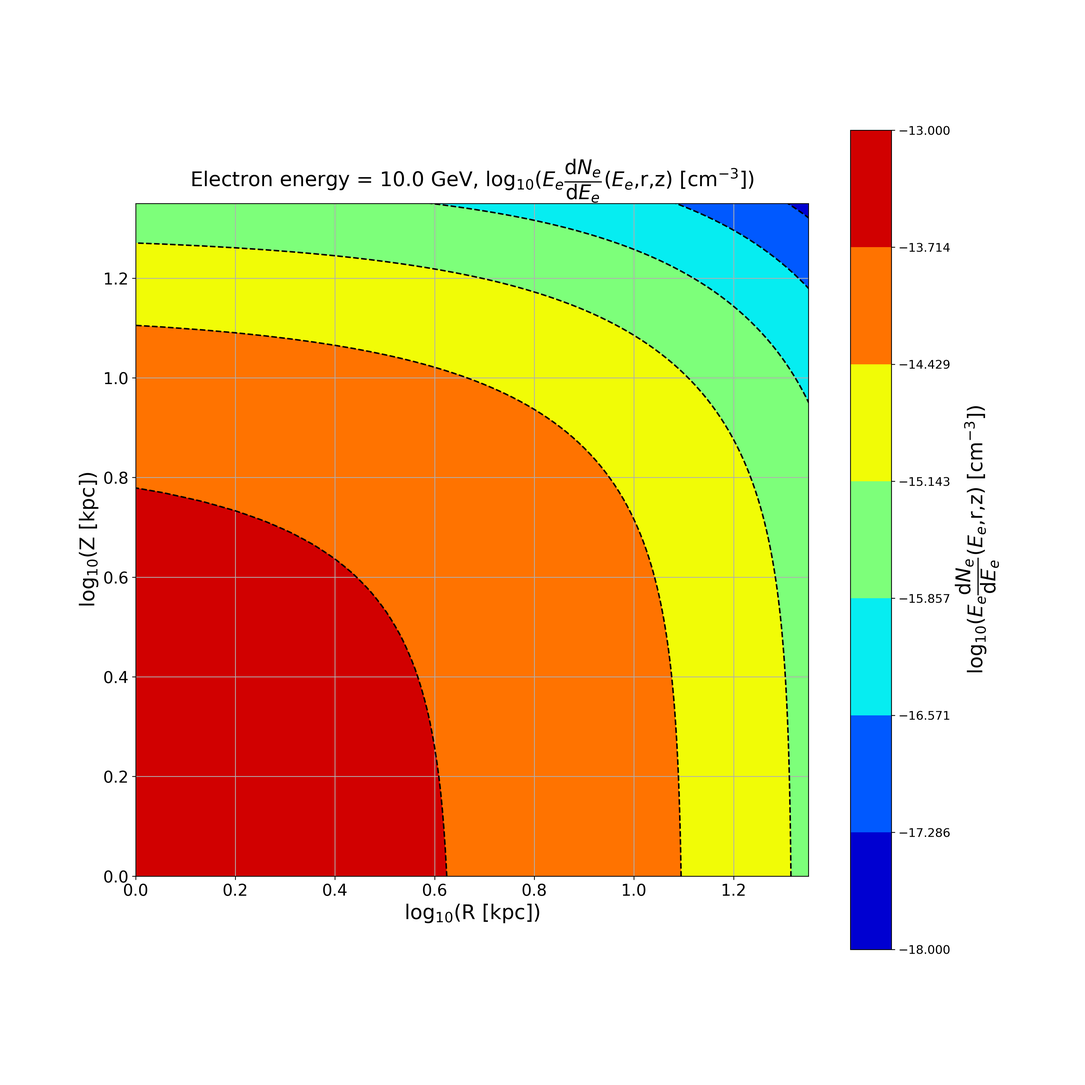
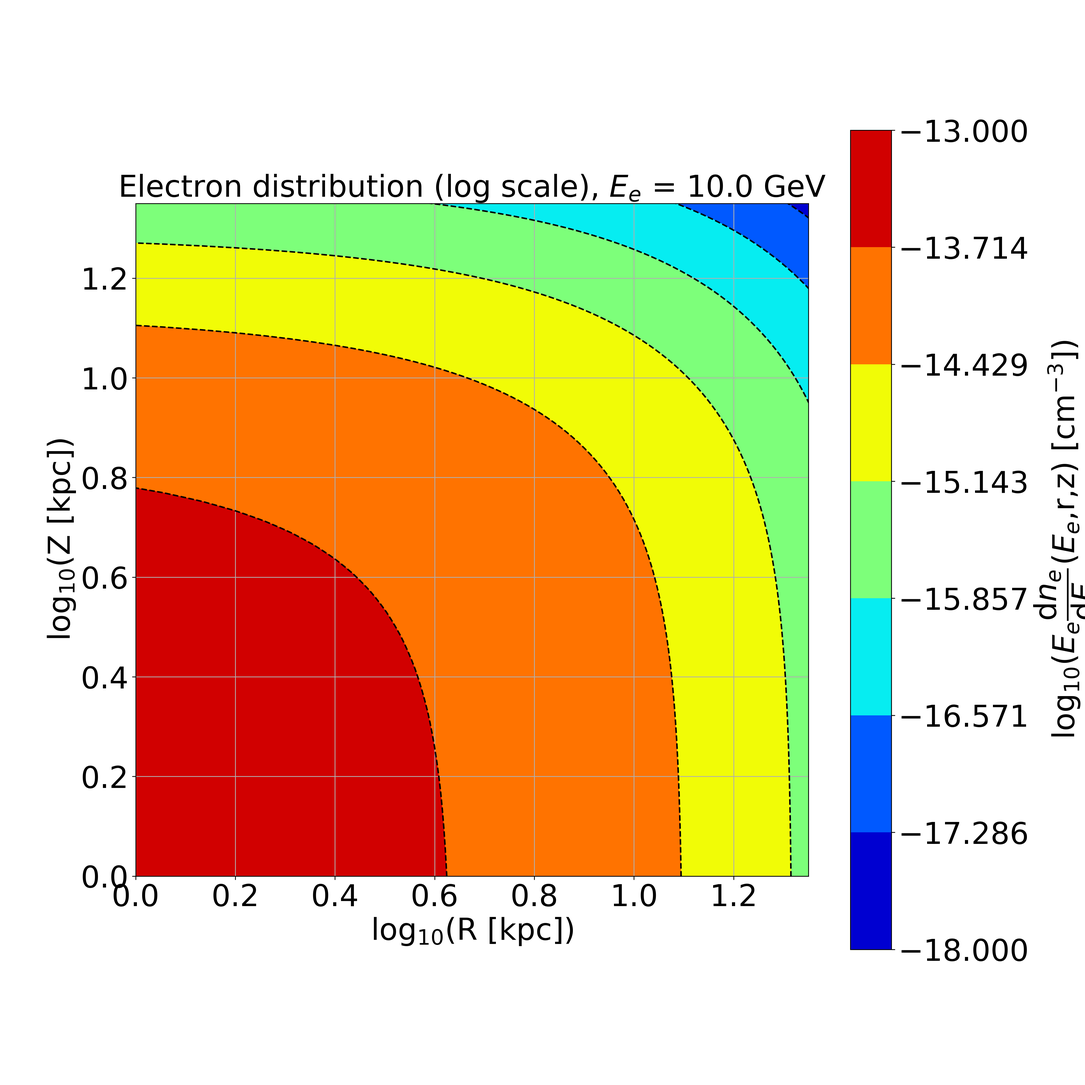
As of AM Jan29

diff --git a/Archive/main_old.tex b/Archive/main_old.tex
@@ -1,16 +1,24 @@
+%\documentclass[12pt, a4 paper]{article}
 \documentclass[usenatbib]{mnras}
+%\documentclass{mnras}
 
 \usepackage{graphicx}
-\usepackage{amssymb}
-\usepackage{epstopdf}
+\usepackage{amsfonts}
 \usepackage{amsmath}
-\usepackage{comment,xcolor}
-\usepackage{hyperref}
+\usepackage{amssymb}
+\usepackage{geometry}
+\usepackage{epstopdf}
+%\usepackage{comment}
+\usepackage{xcolor}
+%\usepackage{hyperref}
 \usepackage{gensymb}
 \usepackage{xspace}
-\usepackage{array}
 \usepackage{cuted}
-\DeclareGraphicsRule{.tif}{png}{.png}{`convert #1 `dirname #1`/`basename #1 .tif`.png}
+\usepackage{float}
+
+%\usepackage{My_packages}
+%\usepackage[utf8]{inputenc}
+%\usepackage{xcolor}
 
 \definecolor{dg}{rgb}{0.0, 0.6, 0.1}
 \newcommand{\Andrew}[1]{\textcolor{dg}{#1}}
@@ -23,7 +31,7 @@
 \let\VANthebibliography\thebibliography
 \def\thebibliography{\DeclareRobustCommand{\VAN}[3]{##3}\VANthebibliography}
 
-\title{UHECR and the Galactic Halo Magnetic Field}
+\title{UHECR and the Halo Magnetic Field}
 
 \author[V.~Shaw et al.]{
 Vasundhara~Shaw,$^{1}$\thanks{E-mail: vasundhara.shaw@desy.de}
@@ -44,17 +52,8 @@ $^{1}$Deutsches Elektronen-Synchrotron, Platanenallee 6, Zeuthen, Germany
 \maketitle
 
 \begin{abstract}
-In the first part of our study, we consider synchrotron emission from electrons in the Galactic halo region. Utilising a simple analytical expression for the non-thermal electron distribution and a toy magnetic field model, we simulate polarised synchrotron emission maps at 30~GHz. By comparing these maps with observational data, we obtain constraints on our toy magnetic field model parameters. In the second half of our study, we use the range of values obtained for our magnetic field toy model, and determine the arrival directions and suppression factors of ultra high energy cosmic rays (UHECRs) from sources with different locations.
+blah.....
 \end{abstract}
-
-%\iffalse
-%\begin{titlepage}
-%    Paper Rough draft
-%\end{titlepage}
-%\fi
-
-%\tableofcontents
-%\newpage
 
 \section{Introduction}
 \label{Introducion}
@@ -65,6 +64,7 @@ The origin and structure of the Galactic magnetic field remains a long standing 
 %  tools used to detect magnetic fields namely RM and synchrotron. And typical values for these fields
 A variety of methods allow observational probes of Galactic magnetic fields, such as starlight polarisation and infrared emission from dust grains, or Zeeman splitting of spectral radio lines in the dust clouds \cite{Beck_2007}. Galactic magnetic fields are also probed by Pulsar dispersion with Faraday rotation, which is sensitive to the magnetic-field component parallel to the line of sight $B_{\parallel}$, and synchrotron radiation which probes the component perpendicular to the line of sight $B_{\perp}$. A major drawback in using the Pulsar dispersion measure along with the Faraday rotation measure method for probing Galactic magnetic fields is that it relies heavily on the lines of sight along which Pulsars are found, which places a strong focus on the regions close to the Galactic plane. Therefore, this method is of most use for probing the magnetic field in the Galactic disc region, and is not so useful for probing the magnetic field out in the Galactic halo. Synchrotron radiation on the other hand is produced via the gyration of non-thermal electrons along magnetic field lines. This method can thus be used to probe magnetic fields also in the Galactic halo.
 
+\Vasu{We should first talk about the Fermi observations and then SPASS and the model.}
 % Observations from Fermi 
 The observations from FERMI-LAT \cite{Su_2010} in the gamma ray regime unveiled giant bipolar gamma ray bubbles extending up to $\approx$~3~kpc radially and $\approx$~8~kpc in the z-direction, having a total energy of $\approx 10^{(54-55)}$~ergs. Recently, observations from eROSITA \cite{eROSITA} in X-ray regime further suggest existence of even larger bubbles going up to  $\approx$~7~kpc radially and $\approx$~14~kpc in the azimuthal direction, having a total energy of $\approx 10^{(56)}$~ergs. These observations strongly motivate the requirement of a magnetic field model focusing on the halo. Henceforth, for the sake of simplicity we will address the two bubbles together as the Galactic halo bubbles.
 
@@ -79,11 +79,11 @@ Several efforts have  been made in modelling magnetic fields in the Galaxy namel
 
 % Short note on non-thermal electron distribution.
 \Vasu{This paragraph needs more work}
-Apart from the Galactic magnetic field, our understanding of the non-thermal electron distribution in the Galaxy is also poor. We have some information on the distribution of cosmic ray electrons from the observations made by AMS01 \cite{AMS_2002} \& \cite{AMS_2014}, CALET \cite{Calet_2017}, DAMPE \cite{Dampe_2017}, CAPRICE94 \cite{CAPRICE_2001} , HEAT\cite{Heat_2001}, SANRIKU\cite{Sanriku_1999}, BETS\cite{Bets_2001}, PPT-BETS\cite{PPT_BETS}, ATIC-1-2\cite{AITC_1_2},H.E.S.S.\cite{HESS_2008}\cite{HESS_2009}, Fermi-LAT \cite{FERMI_2009}, \cite{FERMI_2010} \& \cite{Fermi_2017}, PAMELA \cite{Pamela}. Currently, there are a few ways to model the spatial distribution of these relativistic electrons; for example, with GALPROP \cite{Hammurabi} \cite{Orlando_2011} or the analytical WMAP model \cite{WMAP_Page}. The knowledge of non-thermal electrons is imperative in modelling Galactic magnetic field and generating synchrotron maps.  \Arjen{Perhaps this paragraph can be extended a bit. Why do we care about the non-thermal electron distribution when talking about the Galactic magnetic field? Why is our knowledge of the non-thermal electron distribution so poor? How can it be measured and how do the models that you mention relate to the measurements?} \Vasu{Currently working on it.}
+Apart from the Galactic magnetic field, our understanding of the non-thermal electron distribution in the Galaxy is also poor. We have some information on the distribution of cosmic ray electrons from the observations made by AMS01 \cite{AMS_2002} \& \cite{aguilar2014precision}, CALET \cite{Calet_2017}, DAMPE \cite{Dampe_2017}, CAPRICE94  \cite{CAPRICE_2001} , HEAT\cite{Heat_2001}, SANRIKU\cite{Sanriku_1999}, BETS\cite{Bets_2001}, PPT-BETS\cite{PPT_BETS}, ATIC-1-2\cite{AITC_1_2}, H.E.S.S.\cite{HESS_2008}\cite{HESS_2009}, Fermi-LAT \cite{FERMI_2009} \& \cite{FERMI_2010}, PAMELA \cite{Pamela}. Currently, there are a few ways to model the spatial distribution of these relativistic electrons; for example, with GALPROP \cite{Hammurabi} \cite{Orlando_2011} or the analytical WMAP model \cite{WMAP_Page}. The knowledge of non-thermal electrons is imperative in modelling Galactic magnetic field and generating synchrotron maps.  \Arjen{Perhaps this paragraph can be extended a bit. Why do we care about the non-thermal electron distribution when talking about the Galactic magnetic field? Why is our knowledge of the non-thermal electron distribution so poor? How can it be measured and how do the models that you mention relate to the measurements?} \Vasu{Currently working on it.}
 However, when modelling Galactic magnetic fields, Galactic cosmic ray electrons are not the only particles of interest. 
 
 % Importance of UHECRs
-The propagation of cosmic rays is vital to understand their sources, and this is in turn is limited by our understanding of the intervening magnetic fields. Unfortunately, both Galactic and extragalactic magnetic fields are presently poorly understood. Arrival direction of extragalactic cosmic rays (with energies higher than $\approx$~$10^{18}$), also known  as ultra high energy cosmic rays (UHECRs). These UHECRs are constituted by charged protons or nuclei, and therefore their origin directions are scrambled by the magnetic fields in the path between the source and earth. The paths of these UHECRs can, therefore, be drastically changed depending on the strength and geometry of the field. Different models of the Galactic magnetic field give vastly different predictions for the deflection of UHECRs (see e.g.~Ref.~ \cite{FARRAR_2014} \textcolor{blue}{ADD REF}). Recently, significant anisotropies in the UHECR sky have been discovered (see \cite{Auger_Starburst2018} \& \cite{ICRC_2019}. Due to the deflections in the Galactic magnetic fields, the interpretation of these results in terms of the localisation of the UHECR sources is extremely hard and hence, the knowledge of Galactic magnetic fields is extremely important. 
+The propagation of cosmic rays is vital to understand their sources, and this is in turn is limited by our understanding of the intervening magnetic fields. Unfortunately, both Galactic and extra-Galactic magnetic fields are presently poorly understood. Arrival direction of extra-galactic cosmic rays (with energies higher than $\approx$~$10^{18}$), also known  as ultra high energy cosmic rays (UHECRs). These UHECRs are constituted by charged protons or nuclei, and therefore their origin directions are scrambled by the magnetic fields in the path between the source and earth. The paths of these UHECRs can, therefore, be drastically changed depending on the strength and geometry of the field. Different models of the Galactic magnetic field give vastly different predictions for the deflection of UHECRs (see e.g.~Ref.~\textcolor{blue}{ADD REF}). Recently, significant anisotropies in the UHECR sky have been discovered~\textcolor{blue}{REFS TO DIPOLE/STARBURST CORRELATIONS/TA HOTSPOT}. Due to the deflections in the Galactic magnetic fields, the interpretation of these results in terms of the localisation of the UHECR sources is extremely hard and hence, the knowledge of Galactic magnetic fields is extremely important. 
 
 % Introduction to brief layout of the paper
 The structure of this paper is the following. In section~\ref{Methods}, we provide a description of the electron distribution and the toy magnetic field model adopted in our study. In section~\ref{Results} synthetic polarised synchrotron maps are produced adopting this model, which are then compared against the Planck data. A grid scan of the model against the data is then made in order that constrained model parameters are obtained. In section~\ref{Deflections} we determine the arrival directions of ultra high energy cosmic rays $\rm E = 30$~EeV from our toy model and discuss how the uncertainties in the parameters can propagate errors in estimating the cosmic ray directions. %We also compare results from the toy model and the halo fields from JF12 model.
@@ -111,11 +111,12 @@ Since, we focus only on the Galactic regions of the sky which probe the Galactic
 %We studied each component of the JF12 field separately in order to ascertain how the different components of the Galactic magnetic field model act individually and together. 
 However, it should be noted that the JF12 model was motivated by observations which masked out a large part of the Galactic bubble region, and adopts magnetic fields strengths weaker than the ones suggested by S-PASS observation \cite{Carretti_2013}.
 \begin{figure*}
-\centering
-\includegraphics[width = 0.49\linewidth]{Images/ToyModel_BestFit_XZ.png}%
-\includegraphics[width = 0.49\linewidth]{Images/ToyModel_BestFit_XY.png}
-\caption{Cross-section of toy model for the Galactic magnetic field in the Galactic halo region in the XY and XZ plane (with the Galactic plane in the XY plane at $z=0$) showing their drop in two dimensions.}
-\label{fig:Vis_TM}
+    \centering
+    \includegraphics[width = 9cm]{Images/ToyModel_BestFit_XZ.png}%
+    \includegraphics[width = 9cm
+    ]{Images/ToyModel_BestFit_XY.png}
+    \caption{Cross-section of toy model for the Galactic magnetic field in the Galactic halo region in the XY and XZ plane (with the Galactic plane in the XY plane at $z=0$) showing their drop in two dimensions. \Andrew{REMOVE MOD SIGNS AND VEC NOTATION ON B IN COLAR BAR LABEL}}
+    \label{fig:Vis_TM}
 \end{figure*}
 
 %Discuss the electron distribution
@@ -124,23 +125,22 @@ However, it should be noted that the JF12 model was motivated by observations wh
 In order to produce synthetic synchrotron maps an electron distribution is required.
 The JF12 model considered both the WMAP analytical expression \ref{Eq_WMAP_EdNdE}
 and simulated electron distribution from GALPROP. They used the latter for their model in their paper.
-The two models are quite different. The WMAP \cite{WMAP_Page} model is an analytical expression whereas the GALPROP \cite{Hammurabi} is based on numerical simulations and the distribution of supernova remnants in the Galaxy. For our toy model we adopted the WMAP distribution model. Our current knowledge of the non-thermal electron distribution in the Galaxy, especially in the Galactic halo region, is very limited. We therefore prefer to adopt a simple analytical model in order to avoid adding further layers of complexity. The WMAP electron density distribution model is:
+The two models are quite different. The WMAP \cite{WMAP_Page} model is an analytical expression whereas the GALPROP \cite{Hammurabi} is based on numerical simulations and the distribution of supernova remnants in the Galaxy. For our toy model we adopted the WMAP distribution model. Our current knowledge of the non-thermal electron distribution in the Galaxy, especially in the Galactic halo region, is very limited. We therefore prefer to adopt a simple analytical model in order to avoid adding further layers of complexity. The WMAP electron distribution model is:
 \begin{equation}\label{Eq_WMAP_EdNdE}
-    \frac{\mathrm{d}n_e}{\mathrm{dlog}E_{e}} =     C_\mathrm{norm} \left(\frac{E_e}{\rm E_{\rm 10 GeV}}\right)^{-p+1} e^{-r/R_{\mathrm{el}}} \mathrm{sech}^2(z/Z_{\mathrm{el}}) 
+    \frac{\mathrm{d}N_e}{\mathrm{dlog}E_{e}} =     C_\mathrm{norm} \left(\frac{E_e}{\rm E_{\rm 10 GeV}}\right)^{-p+1} e^{-r/R_{\mathrm{el}}} \mathrm{sech}^2(z/Z_{\mathrm{el}}) 
 \end{equation}
-where $\frac{\mathrm{d}n_e}{\mathrm{dlog}E_{e}}$ is the differential electron density in logarithmic energy bins, in units of ${\rm cm}^{-3}$, and $p =3$ is the spectral index of the electron spectrum. The parameters, $C_\mathrm{norm}$, describes the 10~GeV electron density, and $R_{\mathrm{el}}$ \& $Z_{\mathrm{el}}$ describe the radial and azimuthal spatial cut-offs. 
+where $\frac{\mathrm{d}N_e}{\mathrm{dlog}E_{e}}$ is the differential electron density in a certain energy bins
+in units of ${\rm cm}^{-3}$, $p =3$ is the spectral index. The parameters, $C_\mathrm{norm}$, describes the 10~GeV electron density, and $R_{\mathrm{el}}$ \& $Z_{\mathrm{el}}$ describe the radial and azimuthal spatial cut-offs. 
 
 
 % EdNdE plots for some arbitrary parameters which will be fixed post equipartition scans.
 \begin{figure*}
-\centering
-\includegraphics[width= 0.49\linewidth]{Images/Linear_EdNdE.png}%
-\includegraphics[width = 0.49\linewidth]{Images/Log_EdNdE.png}
-\caption{An example of the electron distribution for an electron energy (say) $E_e = $10~GeV, $R_{\mathrm{el}} = 5$ kpc and $Z_{\mathrm{el}} = 7$~kpc in linear scale on left and log-scale on right. \Andrew{Why is ref. density in plots so low?}}
-\label{fig:electron_density}
+    \centering
+    \includegraphics[width= 8cm]{Images/Linear_EdNdE.png}%
+    \includegraphics[width = 8cm]{Images/Log_EdNdE.png}
+    \caption{Electron distribution for $R_{\mathrm{el}} = 5$ kpc and $Z_{\mathrm{el}} = 7$~kpc in linear scale on left and log-scale on right. \Andrew{LABELS ALL TOO SMALL}}
+    \label{fig:my_label}
 \end{figure*}
-
-\Andrew{ALSO, I SUGGEST $n_e$ BE USED FOR DENSITY (SHOULD THEREFORE BE USED IN FIG.~\ref{electron_density}), AND $N_e$ BE KEPT FOR TOTAL NUMBER- THIS WAY WILL HELP KEEP CONSISTENCY WITHEQNS~\ref{Jperp} AND \ref{Jpara}.}
 
 % synchrotron radiation expressions and theory, also the appendix.
 \subsection{Synchrotron Emission}\label{Synchrotron_theory}
@@ -176,8 +176,7 @@ where the functions,
 F(x) &= x \int_x^\infty K_{5/3}(x') dx'\\
 G(x) &= x K_{2/3}.
 \end{align}
-\Andrew{IN THE ABOVE IT MIGHT BE BETTER TO PROVIDE THE EMISSIVITY OF THE TWO POLARISATION COMPONENTS}
-These expressions are provided in terms of the critical field magnetic field strength, $B_{\mathrm{crit}} = \frac{m_e^2c^3}{e\hbar} = 4.414 \times 10^{13}$~G , where $m_e = 0.511$~MeV is the mass of electron, $h = 4.136 \times 10^{-15}$~eV~s is the Planck's constant and $\alpha \approx \frac{1}{137.04}$ is the electromagnetic fine structure constant.
+These expressions are provided in terms of the critical field magnetic field strength, $B_{\mathrm{crit}} \frac{m_e^2c^3}{e\hbar} = 4.414 \times 10^{13}$~G, where $m_e = 0.511$~MeV is the mass of electron, $h = 4.136 \times 10^{-15}$~eV-sec is the Planck's constant and $\alpha \approx \frac{1}{137.04}$ is the electromagnetic fine structure constant.
 
 For clarity, several of the conventions we adopted are here noted. The parallel component of polarisation (${J_{\parallel}}$) is orientated in the same direction as  $\vec{B_{\perp}}$, and the perpendicular component of polarisation (${J_{\perp}}$) is perpendicular to $\vec{B_{\perp}}$. The Stokes parameters at each point along the line of sight can be written in terms of the intrinsic polarisation angle $\Psi^l_{\rm in}$ which is the angle between the line of sight perpendicular component of the magnetic field $B_{\perp}$ and Galactic south at each step. The conventions adopted here match those used by the Planck collaboration \cite{Planck_XIX} based on the $\rm HEALPix^3$~\footnote{\textcolor{purple}{https://healpix.jpl.nasa.gov/}} software by \cite{Healpix_2005}. For each step along the line-of-sight, both  ${J_{\perp}^l}$ and ${J_{\parallel}^l}$ are subsequently used to obtain the $Q$ and $U$ Stokes parameters. The integrated values along the line of sight can be defined as  $Q^{\rm tot}_{\rm in}$ and $U^{\rm tot}_{\rm in}$ as:
 \begin{eqnarray}
@@ -192,15 +191,13 @@ I_{\rm pol} = \sqrt{(Q_{\rm in}^{\rm tot})^2+(U_{\rm in}^{\rm tot})^2} = J_{\per
 \begin{equation} \label{eq_I_tot}
     I_{\rm tot} = J_{\perp}^{\rm tot} + J_{\parallel}^{\rm tot} 
 \end{equation}
-$I_{\rm tot}$ is computed by summing the contributions of $J_{\perp}^l$ and and $J_{\parallel}^l$ for each point along the line of sight. 
-% \Andrew{I don't think you give the reader sufficient information here. How $I_{\rm tot}$ is obtained (simple summing from each shell) needs explaining.}
 $J_{\perp}^{\rm tot}$ and $J_{\parallel}^{\rm tot}$ are the resultant magnitudes of emissions in perpendicular and parallel directions and can be given by:
 \begin{eqnarray}
 J_{\perp}^{\rm tot} = (I_{\rm tot} + I_{\rm pol})/2 \\
 J_{\parallel}^{\rm tot} = (I_{\rm tot} - I_{\rm pol})/2 
 \end{eqnarray}
 In appendix(\ref{Appendix_A}) we explain in detail the relation between these equations with two simplified cases.
-The intrinsic polarisation angle $\Psi_{\rm in}$ is the resulting angle of polarisation.%\Andrew{This doesn't sound right- this angle describe the angle of the results polarised emission direction wrt Galactic south, not the "local magnetic field component" direction}:
+The intrinsic polarisation angle $\Psi_{\rm in}$ between the Galactic south and the local magnetic field component perpendicular to the line of sight can be defined as:
 \begin{eqnarray}
 \tan(2\Psi_{\rm in}) = \frac{U_{\rm in}^{\rm tot}}{Q_{\rm in}^{\rm tot}} 
 \end{eqnarray}
@@ -226,7 +223,7 @@ For our synchrotron emission study We use the publicly available from the Planck
 \label{Results}
 %% Details of uncertainities 
 We obtained 1$~\sigma$ constraint on our model shown in table~$\ref{Para_table}$. For the structured magnetic field strength $B_{\rm str}$ we obtain the best fit value of 3~$\mu$G with the upper extreme being 11~$\mu$G
-and the lower extreme 1~$\mu$G. Similarly, turbulent magnetic fields $B_{\rm tur}$ the mean value is 6~$\mu$G and upper and lower extreme values are 4~$\mu$G and 12~$\mu$G respectively. For spatial dimensions, we obtain a best fit vale of 7~kpc for the azimuthal extent $Z_{\rm Mag}/Z_{\rm el}$ and uncertainities of $\pm$ 1~kpc. These values are in agreement with the observations made by FERMI\cite{Su_2010}, S-PASS\cite{Carretti_2013} and eROSITA\cite{eROSITA}. We do not however, obtain an upper extreme value for $R_{\rm Mag}/R_{\rm el}$ only a lower extreme value of 4~kpc with the best fit value being 5~kpc. Again this best fit value is in agreement with the radial extent as obtained by the observations.
+and the lower extreme 1~$\mu$G. Similarly, turbulent magnetic fields $B_{\rm tur}$ the mean value is 6~$\mu$G and upper and lower extreme values are 4~$\mu$G and 12~$\mu$G respectively. For spatial dimensions, we obtain a best fit vale of 7~kpc for the azimuthal extent $Z_{\rm Mag}/Z_{\rm el}$ and uncertainities of $\pm$ 1~kpc. Similarly, for electron densities we obtain a best fit value of $3\times 10^{-13} \rm cm^{-3}$ \Vasu{Will update this!} These values are in agreement with the observations made by FERMI \cite{Su_2010}, S-PASS\cite{Carretti_2013} and eROSITA\cite{eROSITA}. We do not however, obtain an upper extreme value for $R_{\rm Mag}/R_{\rm el}$ only a lower extreme value of 4~kpc with the best fit value being 5~kpc. Again this best fit value is in agreement with the radial extent as obtained by the observations.
 
 In Fig.~\ref{fig:Skymaps} the smoothened skymap obtained from the best fit value of the parameters and the smoothened polarised Planck data is shown along with the residuals. The best-fit values used for the parameters are provided in table~\ref{Para_table}. 
 %% Polarisation fraction
@@ -281,7 +278,7 @@ When charged particles propagate through magnetic fields, they precess around th
 \begin{eqnarray}
 \frac{{\rm d}\bfm{\beta}}{c{\rm d}t} = \frac{1}{r_{L}}\bfm{\beta}\times \bfm{\hat{B}}, 
 \end{eqnarray}
-where $\bfm{\beta}$ is the particle's velocity vector, and $r_{L}$ is the particle's Larmor radius. UHECRs undergo the same Lorentz force when propagating through Galactic magnetic fields. The extragalactic magnetic field is considered to be weak, with $B < \rm {nG}$ for $\lambda_{\rm coh}=1$~Mpc \cite{Barrow_1997}, \cite{Kronberg_2007}, and the ultra-high energy cosmic rays UHECRs $E > 10^{19}$ EeV and subsequently $r_{L}>{\rm 10~Mpc}$ are therefore not sensitive to them over 10~Mpc propagation distance scales. However, once they enter the Galaxy magnetic fields are of the order of few $\mu$G. In case for a proton at 6~EeV in $6~\mu$G field the $r_L \approx 1 ~ \rm kpc$ , this implies that the proton will be subject to deflection by the large scale Galactic magnetic fields.
+where $\bfm{\beta}$ is the particle's velocity vector, and $r_{L}$ is the particle's Larmor radius. UHECRs undergo the same Lorentz force when propagating through Galactic magnetic fields. The extra-Galactic magnetic field is considered to be weak, with $B < \rm {nG}$ for $\lambda_{\rm coh}=1$~Mpc \cite{Barrow_1997}, \cite{Kronberg_2007}, and the ultra-high energy cosmic rays UHECRs $E > 10^{19}$ EeV and subsequently $r_{L}>{\rm 10~Mpc}$ are therefore not sensitive to them over 10~Mpc propagation distance scales. However, once they enter the Galaxy magnetic fields are of the order of few $\mu$G. In case for a proton at 6~EeV in $6~\mu$G field the $r_L \approx 1 ~ \rm kpc$ , this implies that the proton will be subject to deflection by the large scale Galactic magnetic fields.
 
 To propagate the cosmic rays we used the CRPropa3's \cite{CRPropa3_2016} Boris pusher scheme in order to ensure particle's trajectory evolution satisfies the Lorentz force equation. CRPropa conserves the total energy each particle during the propagation. 
 To achieve this we backtrack $10^7$ cosmic rays starting isotropically from earth to a distance of 20~kpc. We use nitrogen as a choice of our cosmic ray particles at 40~EeV energy. 
@@ -327,7 +324,7 @@ It can be seen that the best fit and lower extreme parameters can clearly help i
 %\begin{center}
 \begin{table*}
 \centering
-\caption{CAPTION TEXT GOES HERE- \Andrew{NOT REALLY SURE THIS TABLE IS NEEDED}}
+\caption{CAPTION TEXT GOES HERE}
 \begin{tabular}{|p{3.cm}|p{4.cm}|p{4.cm}|p{4.cm}|}
     \hline
     Parameter set & Mean (${}^\circ$)& SD (${}^\circ$) & Variance ($str$)\\
@@ -344,6 +341,7 @@ It can be seen that the best fit and lower extreme parameters can clearly help i
      Upper & $\overline{b} = 0.33$, $\overline{l} = 32.07$ & $\sigma_{b} = 38.06$ , $\sigma_{l} = 83.47$ & $\sigma^2_{b} = 0.44 $, $\sigma^2_{l} = 2.12$\\
     \hline
   \multicolumn{4}{|c|}{NGC 253} \\ 
+    \hline
     \rule{0pt}{3ex} 
     Best Fit & $\overline{b} = -48.89$, $\overline{l} = -1.36$  & $\sigma_{b} = 22.86$ , $\sigma_{l} = 83.98$ & $\sigma^2_{b} = 0.15 $, $\sigma^2_{l} = 2.14$ \\
     \hline
@@ -378,12 +376,9 @@ It can be seen that the best fit and lower extreme parameters can clearly help i
 \label{Conclusions}
 
 %\clearpage
-%\section{References}
+\section{References}
 
 %\printbibliography[heading=none]
-
-\section*{Acknowledgements}
-V.~Shaw would like to thank Mike Peel from the Planck collaboration for helpful discussions about the Planck data.
 
 \bibliographystyle{mnras}
 \bibliography{references.bib}
@@ -403,14 +398,23 @@ Q^l_{\rm in} = ({J_{\perp}^l} - J_{\parallel}^l) \ {\cos}(2\Psi^l_{\rm in}) \ \\
 We can take two test cases (I \& II) given in figure(\ref{fig_tot_intensity}) and figure (\ref{fig_pol_intensity}) respectively.We consider that there are two steps along a line of sight for which ${J_{\perp}^{(1,2)}}$ = 0.85 and $J_{\parallel}^{(1,2)}$  = 0.15. 
 \\ In case I the angles $\Psi_{\rm in}^{(1,2)}$ = $90^{\circ}$ \& $0^{\circ}$. The resultant value of $I_{\rm pol}$ = 0 by virtue of eq.(\ref{eq_I_pol}) and we only have a contribution in $I_{\rm tot}$. This implies that for case I the resultant emission is seen only in total intensity since the values of $J_{\perp}^{\rm tot}$ = $J_{\parallel}^{\rm tot}$. 
 \\ In case II we apply similar calculations to case I however, now the angles are $\Psi_{\rm in}^{(1,2)}$ = $90^{\circ}$ \& $45^{\circ}$. This in turn results in contribution to both polarised emission $I_{\rm pol}$ and total intensity $I_{\rm tot}$. Thus the values of $J_{\perp}^{\rm tot} \neq J_{\parallel}^{\rm tot}$. In figure(\ref{fig_pol_intensity}) we only show polarised intensity for simplicity however, there will be both total intensity and polarised intensity present.
-
 \begin{figure*}
-\centering
-\includegraphics[width = 0.49\linewidth]{Images/Total_intensity_Ellipses_circles_emissions.png}
-\label{fig_tot_intensity}
-\includegraphics[width = 0.49\linewidth]{Images/Pol_intensity_Ellipses_circles_emissions.png}
-\label{fig_pol_intensity}
-\caption{Diagram depicting visually the resultant ellipse, obtained from the summation of two ellipses of equal magnitude, but different orientations. The resultant ellipse dictates the resultant total and polarised intensities.}
+     \centering
+%     \begin{subfigure}{0.4\textwidth}
+%         \centering
+         \includegraphics[width = 0.49\linewidth]{Images/Total_intensity_Ellipses_circles_emissions.png}
+%         \caption{Case I - Total intensity}
+%         \label{fig_tot_intensity}
+%     \end{subfigure}
+%  \hfill
+%    \begin{subfigure}{0.4\textwidth}
+%         \centering
+         \includegraphics[width = 0.49\linewidth]{Images/Pol_intensity_Ellipses_circles_emissions.png}
+%         \caption{Case II - Polarised intensity}
+%         \label{fig_pol_intensity}
+%     \end{subfigure}
+%     \hfill
+\caption{Simplified diagram of emission components for total and polarised intensities in terms of the polarisation ellipses.}
 \end{figure*}
 
 %\newpage
@@ -418,26 +422,27 @@ We can take two test cases (I \& II) given in figure(\ref{fig_tot_intensity}) an
 \section{Turbulent Magnetic Field}
 \label{Appendix_B}
 As discussed in section ~\ref{GMF} we generate the turbulent fields for our model using CRPropa3 ~\cite{CRPropa3_2016}. We the minimum and maximum wavelength we use to generate these fields are 
-$L_{min}$ = 200 pc and $L_{max}$ = 400 pc and $L_{coh} \approx $~150 kpc. One of the major reasons why we do not have enough decades covered for the wavelength is because of the time it takes to generate these fields using CRPropa. 
-We looked at power spectrum for different realisations of the turbulent field. In figure ~\ref{fig:PowerSpectrum} we plot power spectrum in X,Y and Z directions by averaging over the other two directions. We chose a step size of 1~pc and integrate up to $\approx 9\times10^4$~pc. We chose this particular realisation since it followed closely a power law spectrum of index (5/3). 
-
-\begin{figure*}
-    %\centering
-    \includegraphics[width = 0.49\linewidth]{Images/Jan27_Test_PowerSpectrum_vs_lambda_seed_10_lmin_200.0lmax_400.0.png}
-    \caption{Power spectrum of turbulent magnetic field, evaluated along three orthogonal directions, namely the X, Y and Z directions.}
+$L_{min}$ = 200 pc and $L_{max}$ = 400 pc and $L_{coh} \approx $~150 kpc. For all the three directions x,y and z we go from 1~pc to $\rm 8\times 10^{4}$~pc. One of the major reasons why we do not have enough decades covered for the wavelength is because of the time it takes to generate these fields using CRPropa. 
+We looked at power spectrum for different realisations of the turbulent field. In figure ~\ref{fig:PowerSpectrum} we plot power spectrum in X,Y and Z directions by averaging over the other two directions. We chose this particular realisation since it followed closely a power law spectrum of index (5/3). 
+\begin{figure}[h!]
+    \centering
+    \includegraphics[width = 10cm]{Images/Jan27_Test_PowerSpectrum_vs_lambda_seed_10_lmin_200.0lmax_400.0.png}
+    \caption{Power spectrum plot versus wavelength for X, Y and Z direction}
     \label{fig:PowerSpectrum}
-\end{figure*}
+\end{figure}
 
 \iffalse
 
-\begin{figure*}
-\centering
-\includegraphics[width = 0.49\linewidth]{Images/Haslam_408MHz.png}
-\includegraphics[width =0.49\linewidth]{Images/408MHz_TI_Spec_Ind_3.0_Bstr_7_Btur_9_R_19_Z_7_norm_4.3.png}
+\newgeometry{top=20mm, bottom=20mm,lmargin=1.mm,rmargin=1.mm} 
+\begin{figure}[h!]
+    \centering
+    \includegraphics[width = 10cm]{Images/Haslam_408MHz.png}
+    \includegraphics[width =
+    10cm]{Images/408MHz_TI_Spec_Ind_3.0_Bstr_7_Btur_9_R_19_Z_7_norm_4.3.png}
  %   \includegraphics[width = 10cm]{Images/408MHz_TI_Spec_Ind_3.3_Bstr_5_Btur_10_R_12_Z_7.png}
     \caption{In figure Haslam data is shown top left, toy model total intensity map top right and in the bottom JF12 skymaps. The disc field is removed from this skymap and it includes Xfield, toroidal halo and turbulent fields.All calculated at $408$MHz. \Andrew{Color bar scales should have a fixed ranged (to allow easy comparison between maps)}}
     \label{fig:my_label}
-\end{figure*}
+\end{figure}
 %\newpage
 
 \fi
